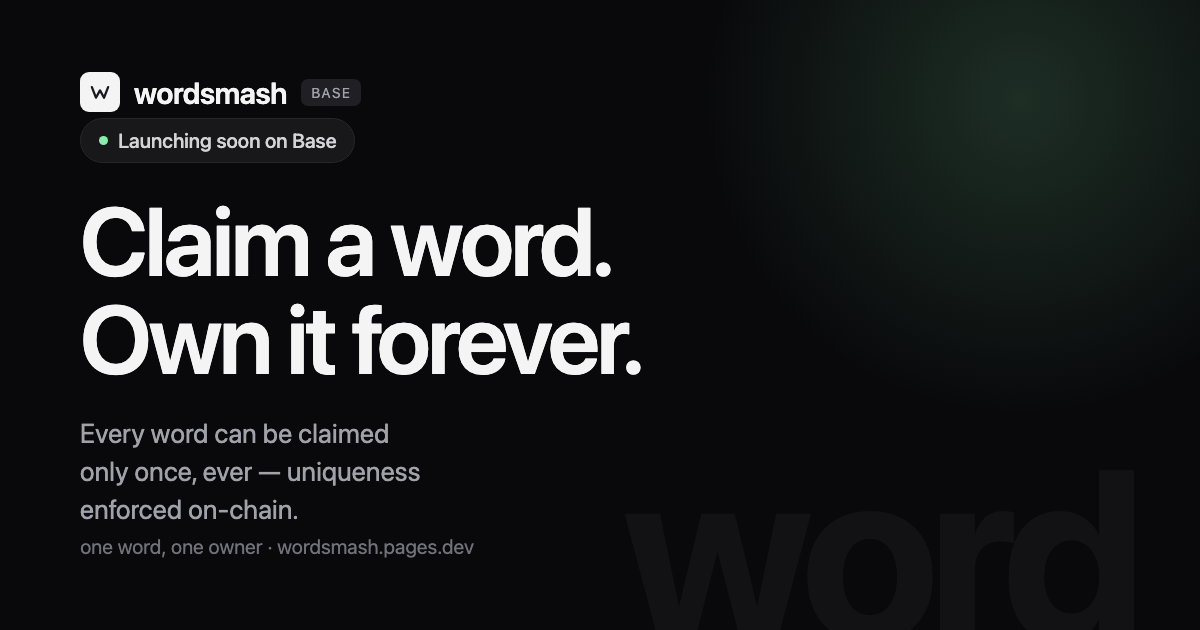
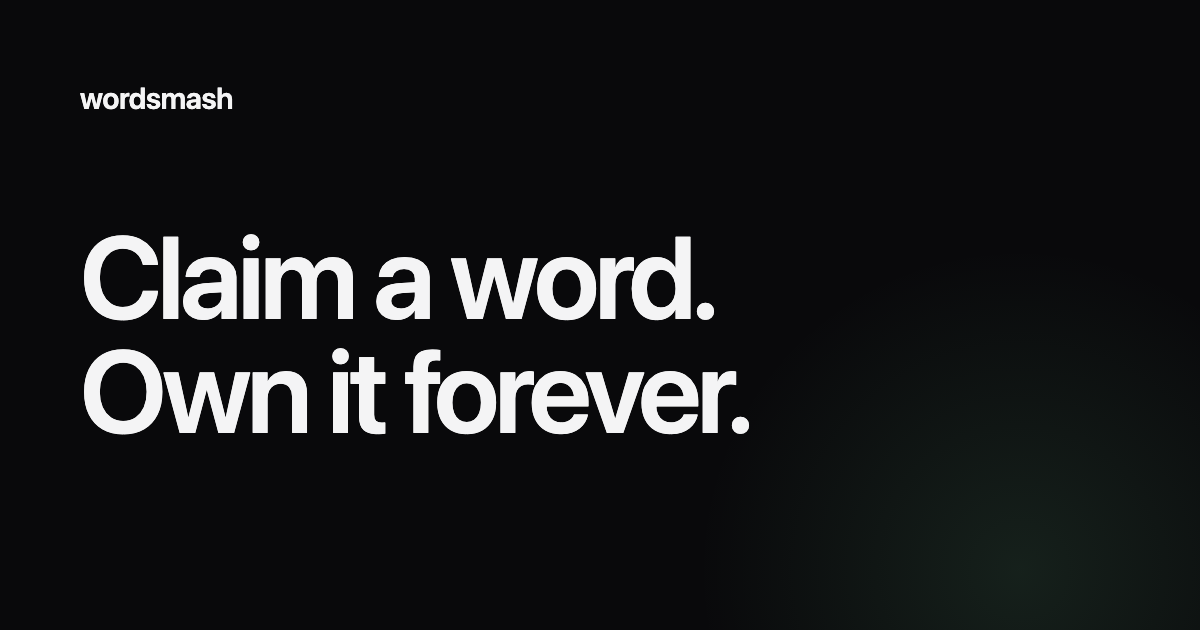
Product/design pass: make people WANT a word; strip AI-cliché copy
Landing is no longer a spec sheet — it's a desire engine:
- ComingSoon is interactive: type your word and the headline becomes
  "Claim "<yourword>". Own it forever." with "Only one "<yourword>" will ever
  exist.", then a Share action (native share / clipboard) = a viral flex loop.
  Zero web3, zero backend.
- Ruthless minimalism: dropped the badge, the 3-line plumbing subtitle, and the
  stacked fine print ("closed beta · whitelisted · not an investment product").
- OG image redone: just the wordmark + "Claim a word. Own it forever." on near-
  black. No subtitle, no footer URL, no ghost spec-text.
- Copy de-clichéd across the app: removed em-dashes from visible prose (Home,
  Word, Watchlist, Layout footer, share text), cut "enforced on-chain"/"1-of-1
  deed" plumbing in favor of scarcity ("the only X there will ever be").
- index.html title/OG/Twitter tightened to "Claim a word. Own it forever."

diff --git a/web/src/components/ComingSoon.tsx b/web/src/components/ComingSoon.tsx
@@ -1,59 +1,131 @@
+import { useState } from "react";
+
+const HOST = "wordsmash.pages.dev";
+
+/** Same normalization as the claim flow: a–z0–9, max 30. */
+function normalize(s: string): string {
+  return s.toLowerCase().replace(/[^a-z0-9]/g, "").slice(0, 30);
+}
+
 /**
- * Public landing shown on the deployed site before contract addresses are wired
- * (production only — dev still gets the AddressGate with env instructions). Keeps
- * a real *.pages.dev URL looking intentional: brand, value prop, "launching soon"
- * — no nav to gated pages, no indexer calls.
+ * Public landing shown on the deployed site before contracts are wired (prod only;
+ * dev keeps the AddressGate). The point isn't to explain the mechanics — it's to
+ * make you want a word: type one and it becomes yours, then share it. Zero web3,
+ * zero backend, zero fine print.
  */
 export function ComingSoon() {
+  const [raw, setRaw] = useState("");
+  const [claimed, setClaimed] = useState(false);
+  const [copied, setCopied] = useState(false);
+  const word = normalize(raw);
+
+  function share() {
+    const text = word
+      ? `I’m claiming the word “${word}”.`
+      : `Claim a word. Own it forever.`;
+    const url = `https://${HOST}`;
+    const nav = navigator as Navigator & { share?: (d: ShareData) => Promise<void> };
+    if (nav.share) {
+      nav.share({ text, url }).catch(() => {});
+    } else {
+      navigator.clipboard?.writeText(`${text} ${url}`).then(
+        () => {
+          setCopied(true);
+          window.setTimeout(() => setCopied(false), 1600);
+        },
+        () => {},
+      );
+    }
+  }
+
   return (
     <div className="flex min-h-screen flex-col bg-bg text-fg">
-      <header className="border-b border-border">
-        <div className="mx-auto flex max-w-[1120px] items-center gap-2 px-6 py-4">
-          <span className="text-lg font-semibold tracking-tight">wordsmash</span>
-          <span className="rounded-[5px] bg-surface-2 px-1.5 py-0.5 text-[10px] uppercase tracking-wide text-muted">
-            Base
-          </span>
-        </div>
+      <header className="px-6 py-5">
+        <span className="text-lg font-semibold tracking-tight">wordsmash</span>
       </header>
 
-      <main className="mx-auto flex w-full max-w-[680px] flex-1 flex-col items-center justify-center px-6 text-center">
-        <span className="fade-up mb-6 inline-flex items-center gap-1.5 rounded-full border border-border bg-surface px-3 py-1 text-[13px] font-medium text-muted">
-          <span className="live-dot inline-block h-1.5 w-1.5 rounded-full bg-positive" />
-          Launching soon on Base
-        </span>
-
-        <h1 className="fade-up text-balance text-4xl font-semibold leading-[1.05] tracking-tight sm:text-[52px]">
-          Claim a word.
+      <main className="mx-auto flex w-full max-w-[620px] flex-1 flex-col items-center justify-center px-6 pb-24 text-center">
+        <h1 className="fade-up text-balance text-4xl font-semibold leading-[1.04] tracking-tight sm:text-[56px]">
+          Claim{" "}
+          {word ? (
+            <span className="break-all text-accent">“{word}”</span>
+          ) : (
+            "a word"
+          )}
+          .
           <br />
           Own it forever.
         </h1>
 
-        <p className="fade-up mx-auto mt-5 max-w-[52ch] text-muted" style={{ animationDelay: "60ms" }}>
-          Every word can be claimed only once, ever. Claiming mints a 1-of-1 deed —
-          global uniqueness enforced on-chain. No images, no descriptions. Just the word.
-        </p>
+        {!claimed ? (
+          <>
+            <form
+              onSubmit={(e) => {
+                e.preventDefault();
+                if (word) setClaimed(true);
+              }}
+              className="fade-up mt-9 flex w-full max-w-[440px] items-center gap-2 rounded-xl border border-border bg-surface p-2 pl-4 shadow-sm"
+              style={{ animationDelay: "60ms" }}
+            >
+              <label htmlFor="cs-word" className="sr-only">
+                Your word
+              </label>
+              <input
+                id="cs-word"
+                value={raw}
+                onChange={(e) => setRaw(e.target.value)}
+                placeholder="your word"
+                autoCapitalize="none"
+                autoCorrect="off"
+                spellCheck={false}
+                autoFocus
+                className="word-display caret-fg min-w-0 flex-1 bg-transparent text-left text-xl outline-none placeholder:text-faint sm:text-2xl"
+              />
+              <button
+                type="submit"
+                disabled={!word}
+                className="shrink-0 rounded-lg bg-accent px-5 py-2.5 text-[15px] font-medium text-accent-fg transition hover:opacity-90 disabled:opacity-40"
+              >
+                Claim
+              </button>
+            </form>
 
-        {/* Decorative claim row — a taste of the product, intentionally inert here. */}
-        <div
-          className="fade-up mt-8 flex w-full max-w-[460px] items-center gap-2 rounded-xl border border-border bg-surface p-2 pl-4 text-left shadow-sm"
-          style={{ animationDelay: "120ms" }}
-          aria-hidden
-        >
-          <span className="word-display min-w-0 flex-1 text-xl text-faint sm:text-2xl">your word</span>
-          <span className="shrink-0 rounded-lg bg-accent px-4 py-2 text-[15px] font-medium text-accent-fg opacity-60">
-            Claim
-          </span>
-        </div>
-
-        <p className="fade-up mt-5 text-xs text-faint" style={{ animationDelay: "160ms" }}>
-          Closed beta · whitelisted wallets · not an investment product
-        </p>
+            <p
+              className="fade-up mt-4 text-sm text-muted"
+              style={{ animationDelay: "100ms" }}
+            >
+              {word ? `Only one “${word}” will ever exist.` : "One word, one owner."}
+            </p>
+          </>
+        ) : (
+          <div className="fade-up mt-9 flex w-full max-w-[440px] flex-col items-center gap-4">
+            <p className="text-base text-muted">
+              <span className="font-medium text-fg">“{word}”</span> is yours to claim
+              the moment wordsmash opens.
+            </p>
+            <div className="flex items-center gap-3">
+              <button
+                onClick={share}
+                className="rounded-lg bg-accent px-5 py-2.5 text-[15px] font-medium text-accent-fg transition hover:opacity-90"
+              >
+                {copied ? "Copied" : "Share it"}
+              </button>
+              <button
+                onClick={() => {
+                  setClaimed(false);
+                  setRaw("");
+                }}
+                className="text-sm text-muted transition hover:text-fg"
+              >
+                try another
+              </button>
+            </div>
+          </div>
+        )}
       </main>
 
-      <footer className="border-t border-border">
-        <div className="mx-auto max-w-[1120px] px-6 py-6 text-xs text-faint">
-          wordsmash — one word, one owner. Claim what only one will ever own.
-        </div>
+      <footer className="px-6 py-6 text-center text-xs text-faint">
+        Launching on Base
       </footer>
     </div>
   );

diff --git a/web/index.html b/web/index.html
@@ -6,21 +6,15 @@
     <link rel="icon" type="image/svg+xml" href="/favicon.svg" />
     <meta name="theme-color" content="#09090b" />
 
-    <title>wordsmash — claim a word, own it forever</title>
-    <meta
-      name="description"
-      content="Claim a globally-unique word on Base. Claiming mints a 1-of-1 deed — uniqueness enforced on-chain. One word, one owner, forever."
-    />
+    <title>wordsmash · claim a word, own it forever</title>
+    <meta name="description" content="Claim a word. Own it forever. One word, one owner, on Base." />
 
     <!-- Open Graph -->
     <meta property="og:type" content="website" />
     <meta property="og:site_name" content="wordsmash" />
     <meta property="og:url" content="https://wordsmash.pages.dev/" />
-    <meta property="og:title" content="wordsmash — claim a word, own it forever" />
-    <meta
-      property="og:description"
-      content="Claim a globally-unique word on Base. Claiming mints a 1-of-1 deed — uniqueness enforced on-chain. One word, one owner, forever."
-    />
+    <meta property="og:title" content="Claim a word. Own it forever." />
+    <meta property="og:description" content="One word, one owner. On Base." />
     <meta property="og:image" content="https://wordsmash.pages.dev/og.png" />
     <meta property="og:image:width" content="1200" />
     <meta property="og:image:height" content="630" />
@@ -28,11 +22,8 @@
 
     <!-- Twitter -->
     <meta name="twitter:card" content="summary_large_image" />
-    <meta name="twitter:title" content="wordsmash — claim a word, own it forever" />
-    <meta
-      name="twitter:description"
-      content="Claim a globally-unique word on Base. One word, one owner, forever."
-    />
+    <meta name="twitter:title" content="Claim a word. Own it forever." />
+    <meta name="twitter:description" content="One word, one owner. On Base." />
     <meta name="twitter:image" content="https://wordsmash.pages.dev/og.png" />
   </head>
   <body>

diff --git a/web/src/pages/Home.tsx b/web/src/pages/Home.tsx
@@ -164,10 +164,7 @@ export function Home() {
           <br />
           Own it forever.
         </h1>
-        <p className="mx-auto mt-4 max-w-[52ch] text-muted">
-          Every word can be claimed only once, ever. Claiming mints a 1-of-1 deed —
-          global uniqueness enforced on-chain. No images, no descriptions. Just the word.
-        </p>
+        <p className="mx-auto mt-4 text-muted">One word, one owner. Forever.</p>
 
         <div className="mt-7 flex items-center gap-2 rounded-xl border border-border bg-surface p-2 pl-4 text-left shadow-sm">
           <label htmlFor="claim-word-input" className="sr-only">
@@ -225,9 +222,6 @@ export function Home() {
               : "Claims are limited per wallet to keep things fair."}
           </p>
         )}
-        <p className="mt-4 text-xs text-faint">
-          Closed beta · whitelisted wallets · testnet only, not an investment product
-        </p>
       </section>
 
       {/* Browse: discovery grid + sticky live sidebar */}

diff --git a/web/src/pages/Word.tsx b/web/src/pages/Word.tsx
@@ -84,8 +84,7 @@ export function Word() {
           <div className="min-w-0">
             <h1 className="word-display text-5xl leading-none sm:text-6xl">{display}</h1>
             <p className="mt-3.5 max-w-[46ch] text-sm text-muted">
-              The only <span className="font-medium text-fg">{display}</span> that will ever
-              exist on-chain — claimed once, owned forever.
+              The only <span className="font-medium text-fg">{display}</span> there will ever be.
             </p>
           </div>
           <div className="flex shrink-0 items-center gap-2">

diff --git a/web/src/components/Layout.tsx b/web/src/components/Layout.tsx
@@ -152,7 +152,7 @@ export function Layout() {
 
       <footer className="border-t border-border">
         <div className="mx-auto max-w-[1120px] px-4 py-6 text-xs text-faint sm:px-6">
-          wordsmash — one word, one owner. Claim what only one will ever own.
+          wordsmash · one word, one owner
         </div>
       </footer>
     </div>

diff --git a/web/src/components/ShareButton.tsx b/web/src/components/ShareButton.tsx
@@ -20,7 +20,7 @@ export function ShareButton({
 }) {
   const toast = useToast();
   const url = shareUrl(word);
-  const text = `I claimed the word "${word}" — only one will ever exist.`;
+  const text = `I claimed the word "${word}". Only one will ever exist.`;
 
   async function onShare() {
     // Prefer the native share sheet on supporting (mobile) browsers.

diff --git a/web/src/pages/Watchlist.tsx b/web/src/pages/Watchlist.tsx
@@ -22,7 +22,7 @@ export function Watchlist() {
         </h1>
         <p className="mt-1.5 text-sm text-muted">
           {isConnected && count > 0
-            ? `${count} ${count === 1 ? "word" : "words"} you’re tracking — updates live as they trade.`
+            ? `${count} ${count === 1 ? "word" : "words"} you’re tracking. Updates live as they trade.`
             : "Words you’re keeping an eye on. Star a word from its page to add it."}
         </p>
       </header>